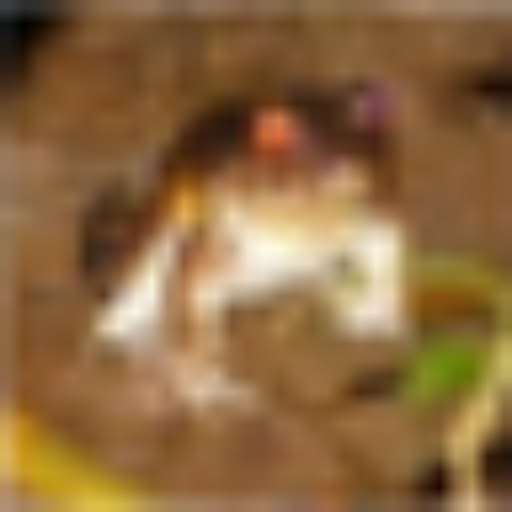
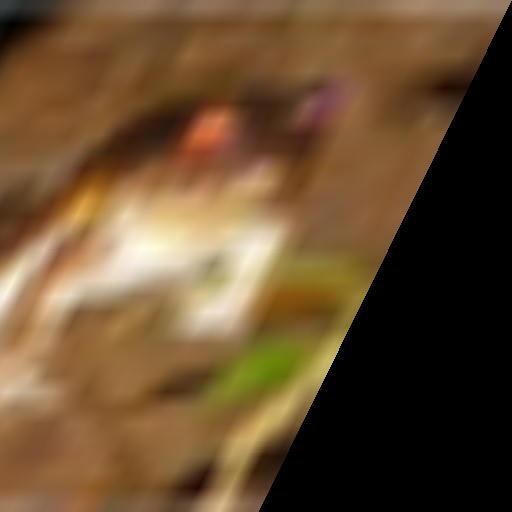
initial

diff --git a/utils/sift_comparison.py b/utils/sift_comparison.py
@@ -28,25 +28,27 @@ def sift_operation(im1, im2, display_matches:bool = False):
         )
         plt.imshow(im3)
         plt.imsave('/home/ekagra/Desktop/Study/MA/code/example/sift_test_example4.png', im3)
-        plt.title(len(matches))
         plt.show()
 
     return len(matches)
-
+import time
 def sift_correction_factor(original_image, augmented_image, display_matches: bool = False):
+    start = time.time()
     matches_reference = sift_operation(original_image, original_image)
     matches_12 = sift_operation(original_image, augmented_image, display_matches)
     correction_factor = matches_12 / matches_reference
+    end = time.time()
+    print(f'time: {end - start}')
     return correction_factor
 
 if __name__=='__main__':
     im1_path = "/home/ekagra/Desktop/Study/MA/code/example/resized_example_image.png"
-    im2_path = "/home/ekagra/Desktop/Study/MA/code/example/augmented_example_image.png"
+    im2_path = "/home/ekagra/Desktop/Study/MA/code/example/augmented_example_image2.png"
     im1 = Image.open(im1_path)
     im2 = Image.open(im2_path)
     im1_gray = im1.convert('L')
     im2_gray = im2.convert('L')
 
     # matches = sift_operation(im1=im1_gray, im2=im2_gray, display_matches=True)
-    corr_fac = sift_correction_factor(original_image=im1, augmented_image=im2, display_matches=True)
+    corr_fac = sift_correction_factor(original_image=im1, augmented_image=im2, display_matches=False)
     print(f'Correction factor: {corr_fac}')

diff --git a/soft_augment.py b/soft_augment.py
@@ -7,7 +7,7 @@ import numpy as np
 from dump.dataset import load_dataset
 
 
-class SoftAugment:
+class RandomCrop:
     """A class to perform soft augmentation on images."""
 
     def __init__(
@@ -114,11 +114,11 @@ class SoftAugment:
         print(f"confidence: {confidence}\taa: {aa_info[augmentation_type]}\n")
         if augmentation_type in self.pixelwise_augs:
             confidence = np.clip(
-                abs(np.mean([aa_info[augmentation_type], confidence])), 0, 1
+                abs(aa_info[augmentation_type] * confidence), 0, 1
             )
         else:
             confidence = np.clip(
-                abs(np.mean([aa_info[augmentation_type], confidence])), 0, 1
+                abs(aa_info[augmentation_type] * confidence), 0, 1
             )
         return cropped_image, confidence
 
@@ -166,7 +166,7 @@ if __name__ == "__main__":
 
     aa_transform = CustomTrivialAugmentWide()
     image, aa_info = aa_transform(images[0])
-    soft_augment = SoftAugment()
+    soft_augment = RandomCrop()
 
     new_image, confidence = soft_augment(images[0], aa_info=aa_info)
     pil_new_image = ff.to_pil_image(new_image)

diff --git a/dummy.py b/dummy.py
@@ -7,7 +7,8 @@ transform = transforms.Compose(
     [
         # transforms.RandomAffine(80),
         transforms.Resize((512, 512)),
-        transforms.TrivialAugmentWide(),
+        transforms.RandomRotation(50),
+        # transforms.TrivialAugmentWide(),
         transforms.ToTensor(),
     ]
 )
@@ -19,5 +20,5 @@ im_numpy = images[0].squeeze().numpy()
 im_numpy = np.transpose(im_numpy, (1, 2, 0))
 im_numpy = (im_numpy * 255).astype(np.uint8)
 pil_im = Image.fromarray(im_numpy)
-pil_im.save("/home/ekagra/Desktop/Study/MA/code/example/augmented_example_image.png")
-pil_im.show()
+pil_im.save("/home/ekagra/Desktop/Study/MA/code/example/augmented_example_image2.png")
+# pil_im.show()

diff --git a/load_augmented_dataset.py b/load_augmented_dataset.py
@@ -2,7 +2,7 @@ import numpy as np
 import torch
 import matplotlib.pyplot as plt
 from torchvision import datasets, transforms
-from soft_augment import SoftAugment
+from soft_augment import RandomCrop
 from trivial_augment import CustomTrivialAugmentWide
 from typing import Optional, List
 
@@ -185,7 +185,7 @@ if __name__ == "__main__":
         "truck",
     ]
     training_loader = get_dataloader(
-        da=-1, aa=1, num_samples=10, shuffle=False, train=False
+        da=2, aa=1, num_samples=10, shuffle=False, train=False
     )
 
     images, labels, confidences = [], [], []

diff --git a/trivial_augment.py b/trivial_augment.py
@@ -83,10 +83,11 @@ if __name__ == "__main__":
         transforms.Resize((512, 512)),
         transforms.ToTensor()]
         )
-    trainloader, _, classes = load_dataset(batch_size=1, transform=transform)
+    trainloader, _, classes = load_dataset(batch_size=10, transform=transform)
 
     images, labels = next(iter(trainloader))
-
+    import time
+    start = time.time()
     ta = CustomTrivialAugmentWide()
     new_image, aug_info = ta(images[0])
     print(aug_info)
